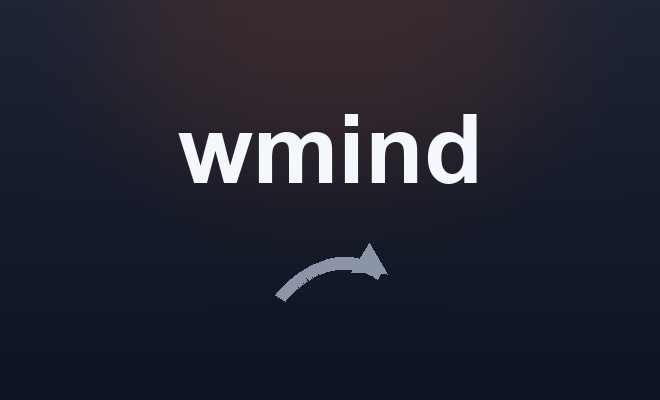
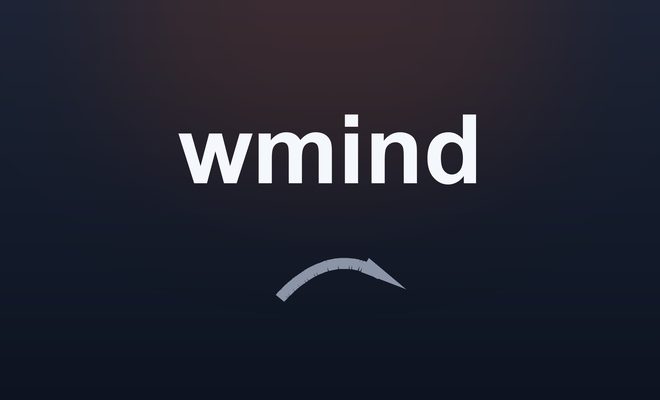
doc(desktop): DMG 背景箭头超采样抗锯齿并细化箭头

diff --git a/scripts/build-dmg-background.py b/scripts/build-dmg-background.py
@@ -65,22 +65,38 @@ def curved_arrow(draw, start, end, bend, color, width):
         y = (1 - t) ** 2 * y0 + 2 * (1 - t) * t * cy + t ** 2 * y1
         points.append((x, y))
     draw.line(points, fill=color, width=width, joint="curve")
+    # 箭头：三角形沿曲线末端的切线方向探出，尖端再往前一点点，
+    # 让箭头与弧线连成一个整体而不是两块拼接。
     (px, py), (qx, qy) = points[-2], points[-1]
     angle = math.atan2(qy - py, qx - px)
-    head, spread = 36, 0.5
-    tip = (x1 + width * 0.6, y1 + (y1 - py) * 0.2)
+    head = width * 3.2
+    base = (x1, y1)
+    tip = (x1 + math.cos(angle) * head * 0.85, y1 + math.sin(angle) * head * 0.85)
+    spread = 0.42
     draw.polygon(
         [
             tip,
-            (tip[0] - head * math.cos(angle - spread), tip[1] - head * math.sin(angle - spread)),
-            (tip[0] - head * math.cos(angle + spread), tip[1] - head * math.sin(angle + spread)),
+            (base[0] - math.cos(angle - spread) * head * 0.55, base[1] - math.sin(angle - spread) * head * 0.55),
+            (base[0] - math.cos(angle + spread) * head * 0.55, base[1] - math.sin(angle + spread) * head * 0.55),
         ],
         fill=color,
     )
 
 
+# 超采样倍数：Pillow 的直线与多边形没有抗锯齿，直接按目标尺寸画出来箭头边缘
+# 是硬的（Retina 上尤其明显）。先按 4 倍画，再用 LANCZOS 缩回目标尺寸，等于
+# 手工做了一次 4×4 的抗锯齿。
+SUPERSAMPLE = 4
+
+
 def render(scale):
-    """按缩放倍数画一张：2x 时所有尺寸翻倍，得到真正的高清图。"""
+    """按目标倍数出一张：内部按 4 倍超采样再缩回，边缘才平滑。"""
+    big = render_raw(scale * SUPERSAMPLE)
+    return big.resize((W * scale, H * scale), Image.LANCZOS)
+
+
+def render_raw(scale):
+    """实际绘制。scale 是超采样后的倍数。"""
     w, h = W * scale, H * scale
     img = vertical_gradient((w, h), (27, 36, 55), (13, 19, 32)).convert("RGBA")
 
@@ -109,7 +125,7 @@ def render(scale):
         (FOLDER_CENTER[0] * scale - 80 * scale, FOLDER_CENTER[1] * scale - 26 * scale),
         42 * scale,
         (139, 149, 167),
-        max(1, round(13 * scale)),
+        max(1, round(11 * scale)),
     )
     return img.convert("RGB")
 
